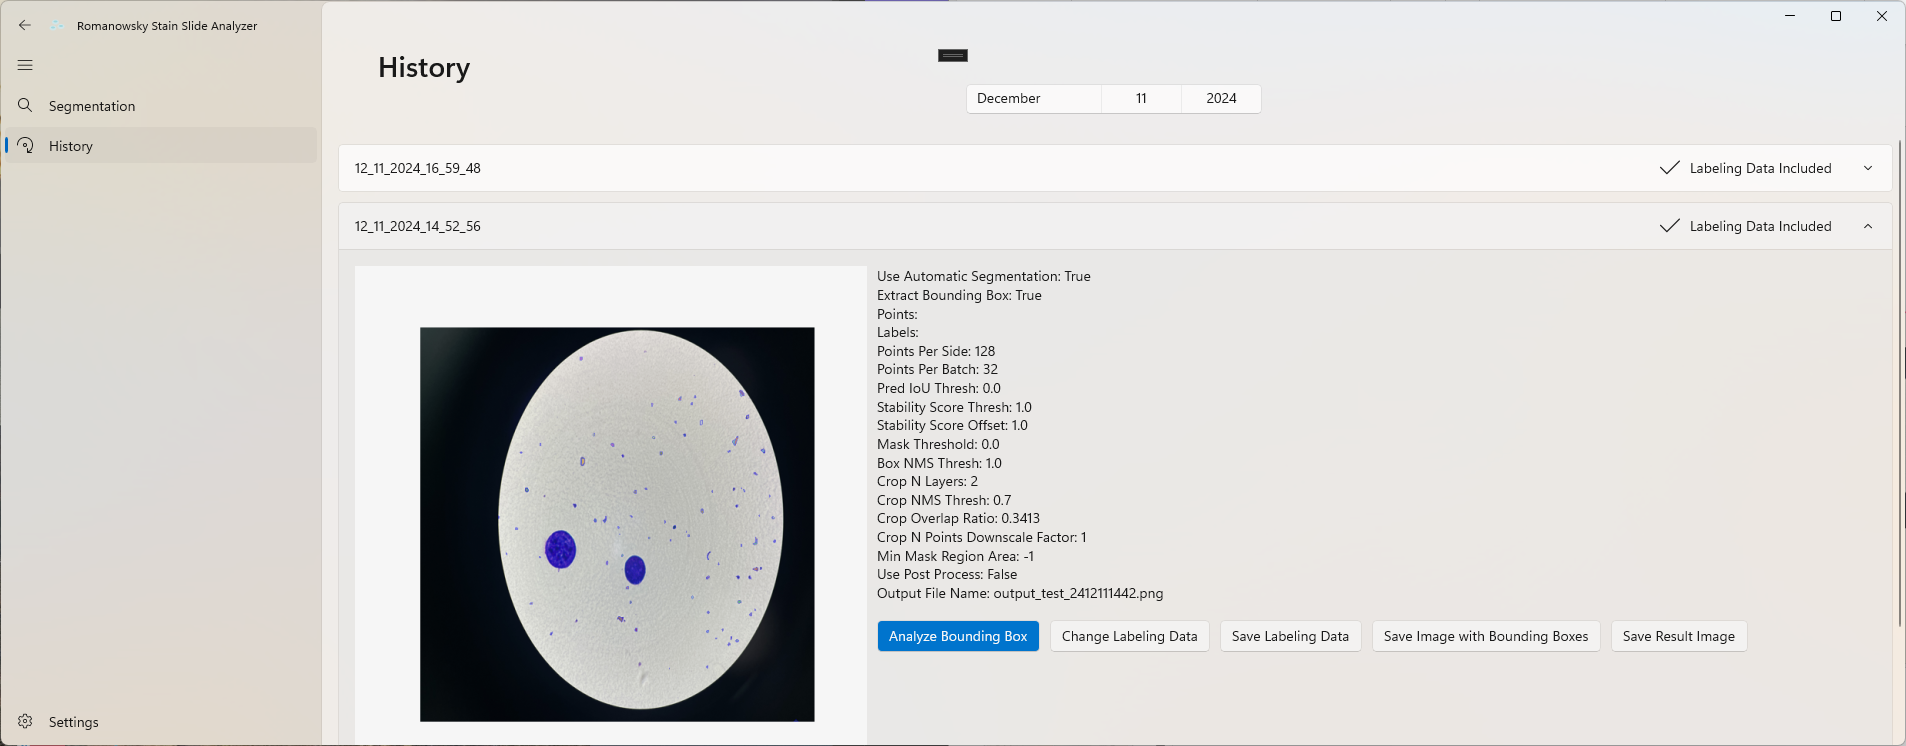
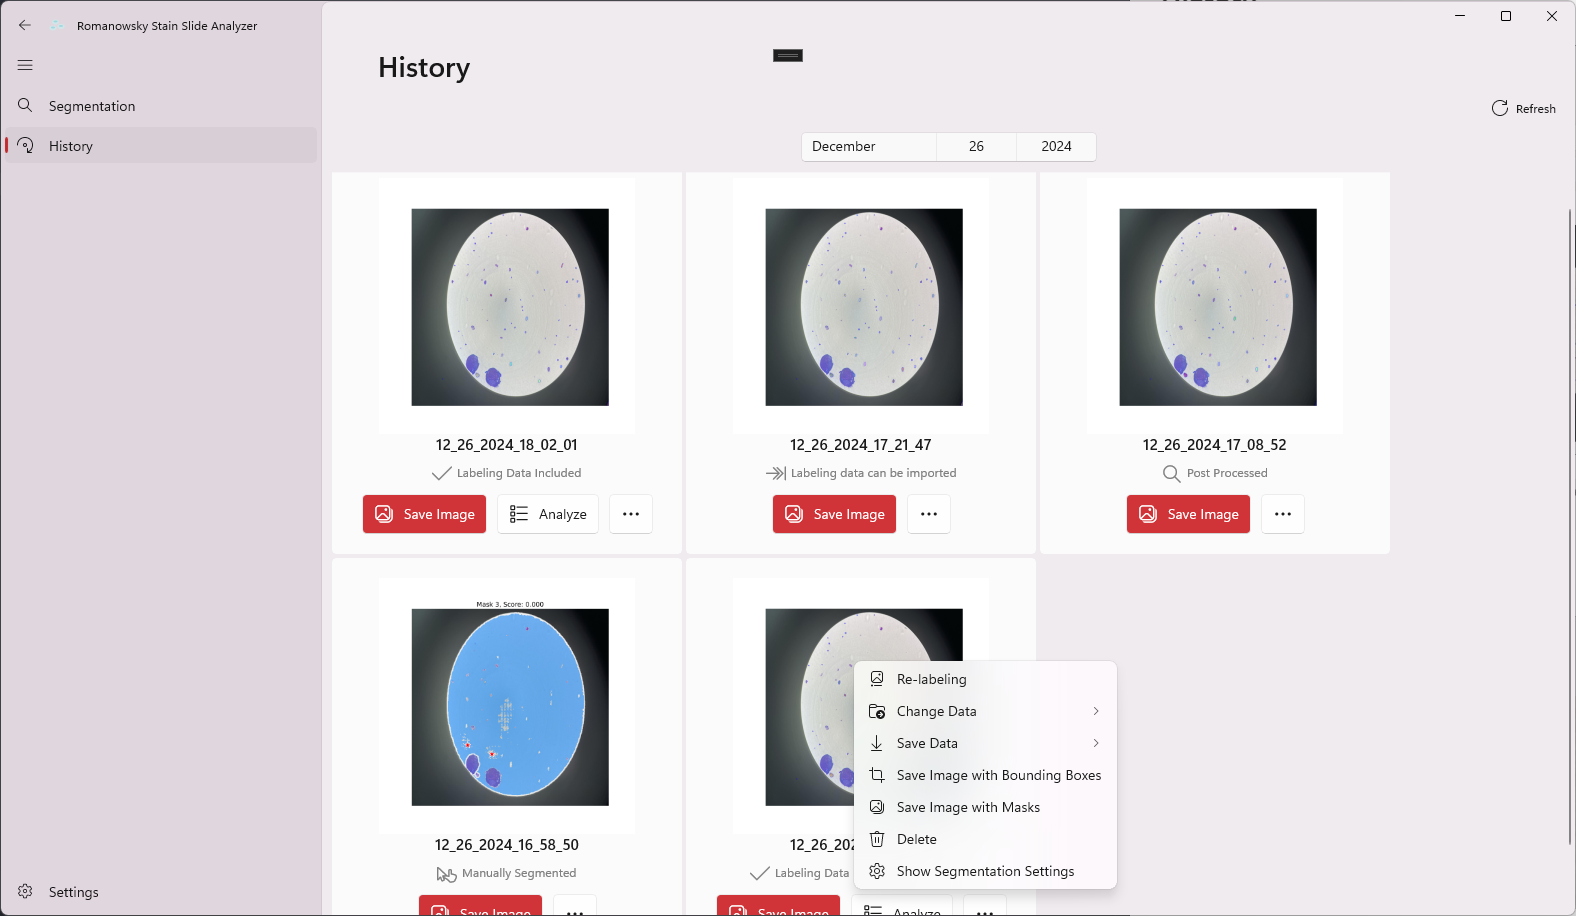
docs: Update ReadMe

diff --git a/FeatureInstaller/obj/Debug/net8.0-windows10.0.20348.0/FeatureInstaller.AssemblyInfo.cs b/FeatureInstaller/obj/Debug/net8.0-windows10.0.20348.0/FeatureInstaller.AssemblyInfo.cs
@@ -1,7 +1,6 @@
 //------------------------------------------------------------------------------
 // <auto-generated>
 //     This code was generated by a tool.
-//     Runtime Version:4.0.30319.42000
 //
 //     Changes to this file may cause incorrect behavior and will be lost if
 //     the code is regenerated.
@@ -14,7 +13,7 @@ using System.Reflection;
 [assembly: System.Reflection.AssemblyCompanyAttribute("FeatureInstaller")]
 [assembly: System.Reflection.AssemblyConfigurationAttribute("Debug")]
 [assembly: System.Reflection.AssemblyFileVersionAttribute("1.0.0.0")]
-[assembly: System.Reflection.AssemblyInformationalVersionAttribute("1.0.0+a9d5cff7b89ccccca14504dc207917c3f0ee0cae")]
+[assembly: System.Reflection.AssemblyInformationalVersionAttribute("1.0.0+c70abba31acfef43ae1df2b60487fe3642338501")]
 [assembly: System.Reflection.AssemblyProductAttribute("FeatureInstaller")]
 [assembly: System.Reflection.AssemblyTitleAttribute("FeatureInstaller")]
 [assembly: System.Reflection.AssemblyVersionAttribute("1.0.0.0")]

diff --git a/ReadMe.md b/ReadMe.md
@@ -23,7 +23,7 @@
 
 ## Labeling<br>
 <img src="./Docs/Images/img_labeling.png"><br>
-> If you selected the Extract Bounding Boxes option, try labeling using the Labeling function.<br>
+> If you selected the Extract Bounding Boxes or Extract Masks option, try labeling using the Labeling function.<br>
 
 ### Export<br>
 <img src="./Docs/Images/img_exportLabels.png"><br>
@@ -66,6 +66,27 @@
 
 ## Release Note<br>
 > Here are the release notes for each version of Romanowsky Stain Slide Analyzer for Windows.<br>
+
+- ### Romanowsky Stain Slide Analyzer 1.3.0.0 Release Note
+> #### Segmentation<br>
+> - Extract Masks is now available.<br>
+> - An option is available to save the image immediately after segmentation is complete.<br>
+
+> #### History<br>
+> - A completely new design for History View is now available.<br>
+> - Re-labeling is now available.<br>
+> - Save Mask Labeling Data is now available.<br>
+> - Label Mask Data is now available.<br>
+> - Save the masked image is available.<br>
+
+> #### Labeling<br>
+> - Toggle Bounding Box / Mask option is now available.<br>
+> - Now when you click the back and next buttons, if there is any saved data it will be displayed.<br>
+
+> #### Analyze<br>
+> - The ability to analyze segmentation mask data is now available.<br>
+> - Toggle Bounding Box / Mask option is now available.<br>
+> - Fixed the issue where the average A value was not displayed properly when exporting data.<br>
 
 - ### Romanowsky Stain Slide Analyzer 1.2.1.0 Release Note
 > #### Feature Activator<br>
